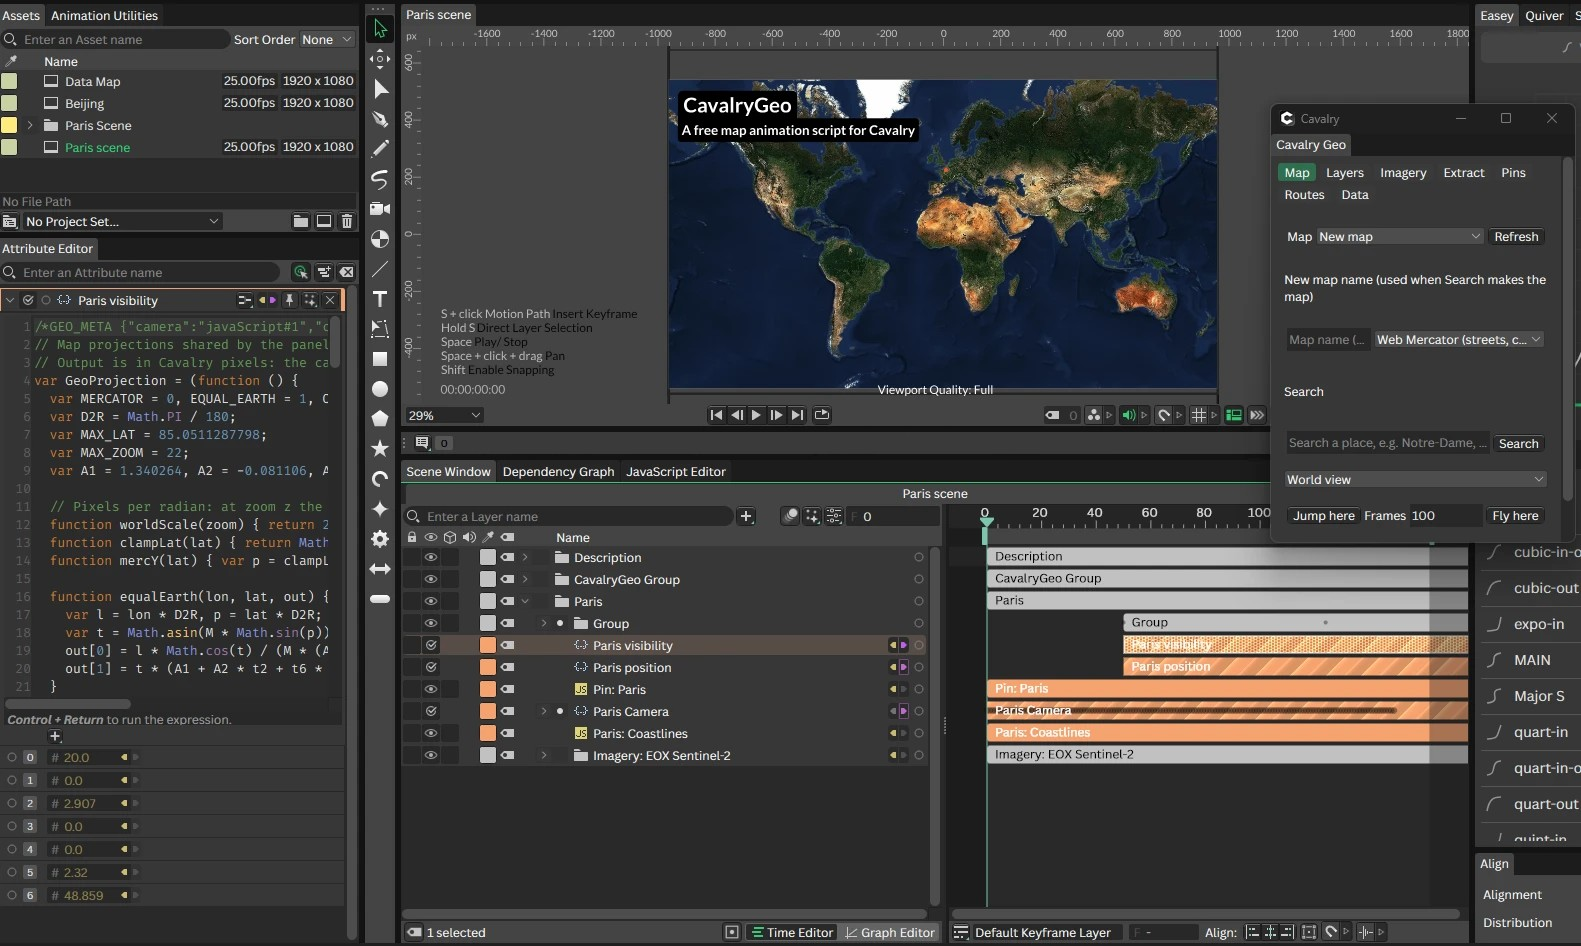
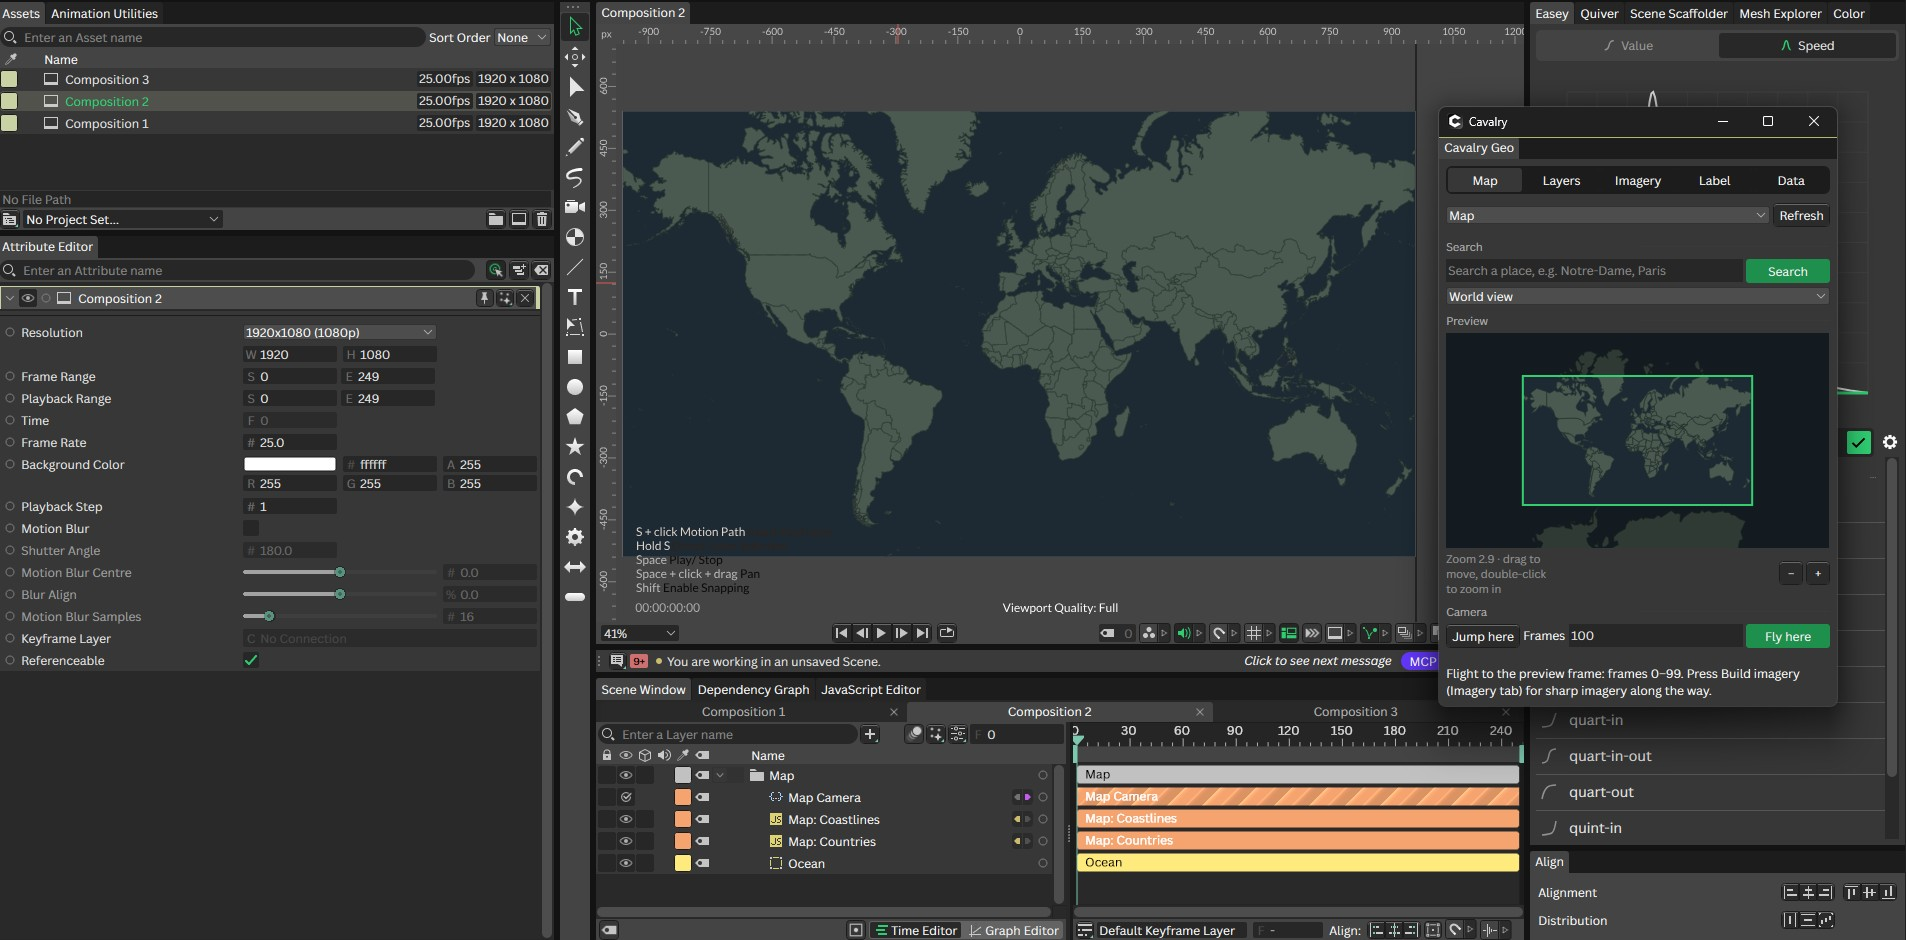
README: hero screenshot shows the new panel and map preview (#7)

diff --git a/README.md b/README.md
@@ -6,7 +6,7 @@ imagery, flight routes and data maps that all move with one camera.
 [![Latest release](https://img.shields.io/github/v/release/optative-visuals/CavalryGeo?label=download)](https://github.com/optative-visuals/CavalryGeo/releases/latest)
 [![Licence: GPL v3](https://img.shields.io/badge/licence-GPL--3.0-blue)](LICENSE)
 
-![The Cavalry Geo panel in Cavalry, with a satellite world map built by it](docs/images/hero.jpg)
+![The Cavalry Geo panel with its map preview, next to a world map it built in Cavalry](docs/images/hero.jpg)
 
 ### [⬇ Download the latest version](https://github.com/optative-visuals/CavalryGeo/releases/latest)
 
